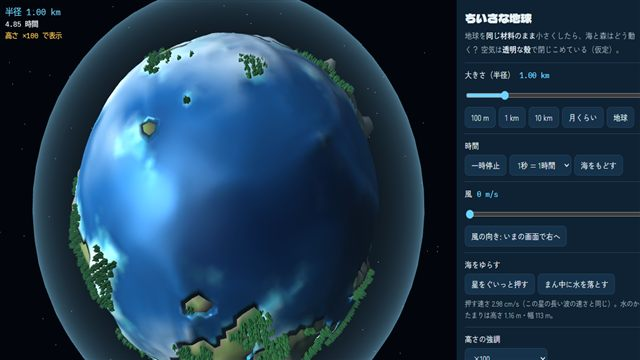
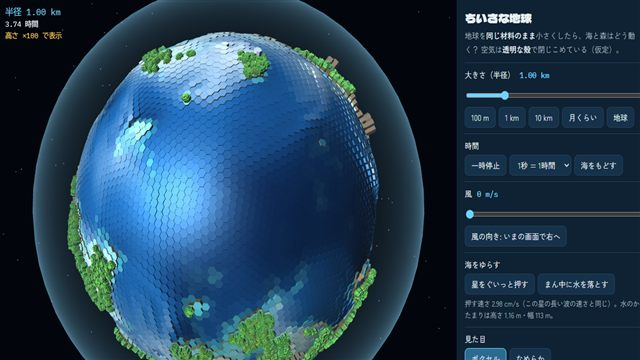
v003-voxel ちいさな地球: 見た目をボクセルふうに（マス目の六角柱を段々に・水の柱・箱の木）。なめらかに切りかえると丸い葉のやわらかい木。1本ずつ色と向きを変える

diff --git a/tiny-earth/js/render.js b/tiny-earth/js/render.js
@@ -1,9 +1,10 @@
 // ちいさな地球 — 描画（three.js r128）。星の半径を 1 として描く。
 'use strict';
 const VIEW = (() => {
-  let renderer, scene, camera, planet, landMesh, waterMesh, treeMesh, shell, sun, cv;
+  let renderer, scene, camera, planet, landMesh, waterMesh, landV, waterV, treeMesh, shell, sun, cv;
+  let C, rFloor;          // ボクセルのマス目・柱の床（陸の上の面）の半径
   let M, TR, O;           // 網・地形・海
-  const st = { ex: 100, az: 0.6, el: 0.35, alt: 2.2, treeShown: 0, treeReal: 0 };
+  const st = { style: 'voxel', ex: 100, az: 0.6, el: 0.35, alt: 2.2, treeShown: 0, treeReal: 0 };
   const tmp = new THREE.Vector3();
 
   function init(canvas, mesh, terrain, ocean) {
@@ -32,6 +33,13 @@ const VIEW = (() => {
     wg.setIndex(idx);
     waterMesh = new THREE.Mesh(wg, new THREE.MeshPhongMaterial({ vertexColors: true, shininess: 25, specular: 0x1a2630 }));
     planet.add(waterMesh);
+    // ボクセルふうの陸と海（マス目を柱にする）
+    C = VOXEL.cells(M); rFloor = new Float32Array(M.N);
+    landV = new THREE.Mesh(VOXEL.columns(M, C), new THREE.MeshLambertMaterial({ vertexColors: true }));
+    waterV = new THREE.Mesh(VOXEL.columns(M, C), new THREE.MeshPhongMaterial({ vertexColors: true, shininess: 25, specular: 0x1a2630 }));
+    planet.add(landV); planet.add(waterV);
+    // 毎コマ全部の頂点から包み球を計算すると重いので、固定の球にして画面外の判定もしない
+    for (const m of [landV, waterV]) { m.geometry.boundingSphere = new THREE.Sphere(new THREE.Vector3(), 3); m.frustumCulled = false; }
     // 殻（空気をとじこめる仮定）
     shell = new THREE.Mesh(new THREE.SphereGeometry(1.25, 64, 32), new THREE.ShaderMaterial({
       transparent: true, depthWrite: false, side: THREE.DoubleSide,
@@ -41,9 +49,11 @@ const VIEW = (() => {
     // logarithmicDepthBuffer の書き込みが ShaderMaterial にはないので、殻は奥行きを見ない
     shell.material.depthTest = false; shell.renderOrder = 10;
     scene.add(shell);
-    // 木（円すい＋幹）
-    treeMesh = new THREE.InstancedMesh(treeGeom(), new THREE.MeshLambertMaterial({ vertexColors: true }), 16000);
+    // 木（ボクセル: 箱の幹と葉 ／ なめらか: 丸い葉）。1本ずつ色を少し変える
+    treeMesh = new THREE.InstancedMesh(treeGeom('voxel'), new THREE.MeshLambertMaterial({ vertexColors: true }), 16000);
+    treeMesh.instanceColor = new THREE.InstancedBufferAttribute(new Float32Array(16000 * 3).fill(1), 3);
     treeMesh.count = 0; planet.add(treeMesh);
+    setStyle(st.style);
     controls();
   }
   function stars() {
@@ -57,21 +67,30 @@ const VIEW = (() => {
     const g = new THREE.BufferGeometry(); g.setAttribute('position', new THREE.BufferAttribute(p, 3));
     scene.add(new THREE.Points(g, new THREE.PointsMaterial({ color: 0x9fb4c8, size: 1.3, sizeAttenuation: false })));
   }
-  // 高さ 1・根元が原点・+y が上の木
-  function treeGeom() {
-    const pos = [], col = [];
-    const ring = (y, r, k) => [Math.cos(k / 6 * Math.PI * 2) * r, y, Math.sin(k / 6 * Math.PI * 2) * r];
-    const add = (a, b, c, color) => { pos.push(...a, ...b, ...c); for (let i = 0; i < 3; i++) col.push(...color); };
-    for (let k = 0; k < 6; k++) {
-      add(ring(0.25, 0.26, k), [0, 1, 0], ring(0.25, 0.26, k + 1), [0.13, 0.33, 0.16]);   // 葉
-      add(ring(0.25, 0.26, k + 1), [0, 0.25, 0], ring(0.25, 0.26, k), [0.10, 0.25, 0.12]);
-      add(ring(0, 0.04, k), ring(0.3, 0.03, k), ring(0, 0.04, k + 1), [0.35, 0.25, 0.16]);  // 幹
+  // 高さ 1・根元が原点・+y が上の木。部品 [形, 色, 中心の高さ, 横の倍率, 縦の倍率] を1つにまとめる
+  function treeGeom(style) {
+    const trunk = [0.42, 0.30, 0.19], leaf = [0.30, 0.55, 0.28], leaf2 = [0.36, 0.62, 0.30];
+    const parts = style === 'voxel'
+      ? [[new THREE.BoxGeometry(1, 1, 1), trunk, 0.2, 0.14, 0.4], [new THREE.BoxGeometry(1, 1, 1), leaf, 0.56, 0.62, 0.46], [new THREE.BoxGeometry(1, 1, 1), leaf2, 0.88, 0.38, 0.24]]
+      : [[new THREE.CylinderGeometry(0.5, 0.6, 1, 7), trunk, 0.2, 0.12, 0.4], [new THREE.IcosahedronGeometry(0.5, 1), leaf, 0.6, 0.66, 0.72], [new THREE.IcosahedronGeometry(0.5, 1), leaf2, 0.84, 0.4, 0.34]];
+    const pos = [], nor = [], col = [];
+    for (const [g0, c, y, sx, sy] of parts) {
+      const g = g0.toNonIndexed(); g.scale(sx, sy, sx); g.translate(0, y, 0); g.computeVertexNormals();
+      const p = g.attributes.position.array, n = g.attributes.normal.array;
+      for (let i = 0; i < p.length; i++) { pos.push(p[i]); nor.push(n[i]); }
+      for (let i = 0; i < p.length / 3; i++) col.push(...c);
     }
     const g = new THREE.BufferGeometry();
     g.setAttribute('position', new THREE.Float32BufferAttribute(pos, 3));
+    g.setAttribute('normal', new THREE.Float32BufferAttribute(nor, 3));
     g.setAttribute('color', new THREE.Float32BufferAttribute(col, 3));
-    g.computeVertexNormals();
     return g;
+  }
+  function setStyle(style) {
+    st.style = style;
+    const vox = style === 'voxel';
+    landMesh.visible = waterMesh.visible = !vox; landV.visible = waterV.visible = vox;
+    treeMesh.geometry.dispose(); treeMesh.geometry = treeGeom(style);
   }
 
   // 大きさ・強調を変えたら陸と木を作りなおす
@@ -88,7 +107,13 @@ const VIEW = (() => {
       else c = mix([0.42, 0.52, 0.28], [0.55, 0.50, 0.45], Math.min(1, e / 3000));          // 草地〜岩
       if (Math.abs(p[i * 3 + 1]) > 0.93 && e > 0) c = [0.88, 0.9, 0.93];                      // 極の雪
       ca.set(c, i * 3);
+      // ボクセル: 見た目だけ段々に（陸は 400 m ごとに切り上げ、海の底は 1000 m ごとに切り下げ。地球の大きさのときの高さで。計算はなめらかな高さ）
+      const de = e >= 0 ? 400 * (1 + Math.floor(e / 400)) : 1000 * Math.floor(e / 1000);
+      rFloor[i] = 1 + ex * de / PHYS.RE;
+      VOXEL.setCol(landV.geometry, M, C, i, rFloor[i], 1 - ex * 12000 / PHYS.RE);
+      VOXEL.setColor(landV.geometry, C, i, c, e >= 0 ? mix(c, [0.36, 0.26, 0.17], 0.6) : mix(c, [0.1, 0.1, 0.12], 0.4));
     }
+    const lv = landV.geometry.attributes; lv.position.needsUpdate = true; lv.color.needsUpdate = true;
     landMesh.geometry.attributes.position.needsUpdate = true; landMesh.geometry.attributes.color.needsUpdate = true;
     landMesh.geometry.computeVertexNormals(); landMesh.geometry.computeBoundingSphere();
     placeTrees();
@@ -104,28 +129,33 @@ const VIEW = (() => {
     const want = Math.min(treeMesh.instanceMatrix.count, Math.round(st.treeReal));
     const cells = []; for (let i = 0; i < M.N; i++) if (TR.forest[i]) cells.push(i);
     let s = 11; const rnd = () => (s = (s * 16807) % 2147483647) / 2147483647;
-    const mtx = new THREE.Matrix4(), q = new THREE.Quaternion(), up = new THREE.Vector3(0, 1, 0), n = new THREE.Vector3(), sc = new THREE.Vector3();
+    const mtx = new THREE.Matrix4(), q = new THREE.Quaternion(), q2 = new THREE.Quaternion(), up = new THREE.Vector3(0, 1, 0), n = new THREE.Vector3(), sc = new THREE.Vector3(), tint = new THREE.Color();
+    const vox = st.style === 'voxel';
     const spread = M.Lavg * 0.6;
     for (let k = 0; k < want; k++) {
       const i = cells[Math.floor(rnd() * cells.length)];
       n.set(M.pos[i * 3] + (rnd() - 0.5) * spread, M.pos[i * 3 + 1] + (rnd() - 0.5) * spread, M.pos[i * 3 + 2] + (rnd() - 0.5) * spread).normalize();
-      q.setFromUnitVectors(up, n);
+      q.setFromUnitVectors(up, n).multiply(q2.setFromAxisAngle(up, rnd() * 6.283));
       const hh = hU * (0.7 + 0.6 * rnd());
       sc.set(hh, hh, hh);
-      mtx.compose(n.clone().multiplyScalar(1 + ex * O.z[i] / R - hh * 0.05), q, sc);
+      const base = vox ? rFloor[i] : 1 + ex * O.z[i] / R;
+      mtx.compose(n.clone().multiplyScalar(base - hh * 0.03), q, sc);
       treeMesh.setMatrixAt(k, mtx);
+      const v = rnd(); tint.setRGB(0.8 + 0.35 * v, 0.85 + 0.3 * rnd(), 0.75 + 0.2 * (1 - v));   // 1本ずつ少しちがう緑
+      treeMesh.setColorAt(k, tint);
     }
     treeMesh.count = want; st.treeShown = want;
     treeMesh.instanceMatrix.needsUpdate = true;
+    if (treeMesh.instanceColor) treeMesh.instanceColor.needsUpdate = true;
   }
 
   // 海の形と色（毎コマ）
   function updateWater() {
-    const R = O.R, ex = st.ex, H0 = O.P.H0, p = M.pos, pa = waterMesh.geometry.attributes.position.array, ca = waterMesh.geometry.attributes.color.array;
+    const R = O.R, ex = st.ex, H0 = O.P.H0, p = M.pos, pa = waterMesh.geometry.attributes.position.array, ca = waterMesh.geometry.attributes.color.array, vox = st.style === 'voxel';
     for (let i = 0; i < M.N; i++) {
       const h = O.h[i], wet = TR.elev[i] >= 0 ? h > 0.02 * H0 : h > O.hdry;   // 陸の上のうすい膜は描かない
       const r = wet ? 1 + ex * (O.z[i] + h) / R : 1 + ex * O.z[i] / R - 3 * Math.max(H0, 0.002 * R) * ex / R;
-      pa[i * 3] = p[i * 3] * r; pa[i * 3 + 1] = p[i * 3 + 1] * r; pa[i * 3 + 2] = p[i * 3 + 2] * r;
+      if (!vox) { pa[i * 3] = p[i * 3] * r; pa[i * 3 + 1] = p[i * 3 + 1] * r; pa[i * 3 + 2] = p[i * 3 + 2] * r; }
       // 色: 深さ（浅い＝明るい）＋ もとの海面からの高さ（高い＝白っぽく、低い＝暗く）
       //   深さはうすく（浅い所だけ少し明るい）、高さの変化を主に（±0.5×平均の深さでいっぱい）
       const d = Math.min(1, h / (0.6 * H0)), a = (O.z[i] + h) / H0;
@@ -134,7 +164,14 @@ const VIEW = (() => {
       if (a > 0) c = mix(c, [0.95, 0.98, 1.0], Math.min(0.9, a * 1.8));
       else c = mix(c, [0.0, 0.04, 0.16], Math.min(0.85, -a * 1.8));
       ca.set(c, i * 3);
+      if (vox) {
+        // 水の柱: 床（段々の地面）から水面まで。乾いている・水面が床より低いときは高さ 0
+        const top = wet ? Math.max(rFloor[i], r) : rFloor[i];
+        VOXEL.setCol(waterV.geometry, M, C, i, top, rFloor[i]);
+        VOXEL.setColorRGB(waterV.geometry, C, i, c[0], c[1], c[2], 0.85);
+      }
     }
+    if (vox) { const wv = waterV.geometry.attributes; wv.position.needsUpdate = true; wv.color.needsUpdate = true; return; }
     waterMesh.geometry.attributes.position.needsUpdate = true; waterMesh.geometry.attributes.color.needsUpdate = true;
     waterMesh.geometry.computeVertexNormals(); waterMesh.geometry.computeBoundingSphere();
   }
@@ -191,7 +228,7 @@ const VIEW = (() => {
   function pick(e) {
     const r = cv.getBoundingClientRect();
     ray.setFromCamera({ x: (e.clientX - r.left) / r.width * 2 - 1, y: -(e.clientY - r.top) / r.height * 2 + 1 }, camera);
-    const hit = ray.intersectObjects([waterMesh, landMesh])[0];
+    const hit = ray.intersectObjects(st.style === 'voxel' ? [waterV, landV] : [waterMesh, landMesh])[0];
     if (!hit) return -1;
     tmp.copy(hit.point).applyQuaternion(planet.quaternion.clone().invert()).normalize();
     return nearest(tmp.x, tmp.y, tmp.z);
@@ -215,6 +252,6 @@ const VIEW = (() => {
     shell.visible = camera.position.length() > 1.3;   // 殻の内がわからは描かない（景色が白っぽくなるので）
     renderer.render(scene, camera);
   }
-  return { init, rebuildLand, updateWater, render, resize, pick, setAlt, screenUpInPlanet, screenRightInPlanet, st,
+  return { init, setStyle, rebuildLand, updateWater, render, resize, pick, setAlt, screenUpInPlanet, screenRightInPlanet, st,
     set onTap(f) { onTap = f; }, get camera() { return camera; } };
 })();

diff --git a/tiny-earth/js/voxel.js b/tiny-earth/js/voxel.js
@@ -1,0 +1,95 @@
+// ちいさな地球 — ボクセルふうの柱（マス目＝ボロノイの六角形・五角形を柱にする）
+// 柱ごとの頂点: 上の面の中心 1 ＋ 角 k ＋ 横の面 4k。法線は面ごと（上＝外向き、横＝となりへの向き）。
+'use strict';
+const VOXEL = (() => {
+  // マス目の角（まわりの三角形の外心）を、まわる順にならべる
+  function cells(M) {
+    const corners = [], start = new Int32Array(M.N + 1);
+    let nv = 0, ni = 0;
+    for (let i = 0; i < M.N; i++) {
+      const px = M.pos[i * 3], py = M.pos[i * 3 + 1], pz = M.pos[i * 3 + 2];
+      // 接平面の向き e1, e2
+      let ax = Math.abs(py) < 0.9 ? 0 : 1, ay = Math.abs(py) < 0.9 ? 1 : 0, az = 0;
+      let e1x = ay * pz - az * py, e1y = az * px - ax * pz, e1z = ax * py - ay * px;
+      const l1 = Math.sqrt(e1x * e1x + e1y * e1y + e1z * e1z); e1x /= l1; e1y /= l1; e1z /= l1;
+      const e2x = py * e1z - pz * e1y, e2y = pz * e1x - px * e1z, e2z = px * e1y - py * e1x;
+      const list = [];
+      for (let j = M.tdeg[i]; j < M.tdeg[i + 1]; j++) {
+        const f = M.vTri[j], cx = M.cc[f * 3], cy = M.cc[f * 3 + 1], cz = M.cc[f * 3 + 2];
+        list.push([Math.atan2(cx * e2x + cy * e2y + cz * e2z, cx * e1x + cy * e1y + cz * e1z), cx, cy, cz]);
+      }
+      list.sort((a, b) => a[0] - b[0]);
+      corners.push(list.map(c => [c[1], c[2], c[3]]));
+      start[i] = nv; nv += 1 + 5 * list.length; ni += 3 * list.length * 3;
+    }
+    start[M.N] = nv;
+    // 角を平たい配列にも（毎コマの書きこみを速くする）
+    const cs = new Int32Array(M.N + 1);
+    for (let i = 0; i < M.N; i++) cs[i + 1] = cs[i] + corners[i].length;
+    const cf = new Float32Array(cs[M.N] * 3);
+    for (let i = 0; i < M.N; i++) corners[i].forEach((c, j) => cf.set(c, (cs[i] + j) * 3));
+    return { corners, start, nv, ni, cs, cf };
+  }
+
+  // 柱の集まり（陸または海）を作る
+  function columns(M, C) {
+    const pos = new Float32Array(C.nv * 3), nor = new Float32Array(C.nv * 3), col = new Float32Array(C.nv * 3);
+    const idx = new Uint32Array(C.ni);
+    let q = 0;
+    for (let i = 0; i < M.N; i++) {
+      const k = C.corners[i].length, s = C.start[i];
+      const px = M.pos[i * 3], py = M.pos[i * 3 + 1], pz = M.pos[i * 3 + 2];
+      for (let v = 0; v <= k; v++) nor.set([px, py, pz], (s + v) * 3);
+      for (let j = 0; j < k; j++) {
+        const a = C.corners[i][j], b = C.corners[i][(j + 1) % k];
+        // 上の面（中心・角 j・角 j+1）
+        idx[q++] = s; idx[q++] = s + 1 + j; idx[q++] = s + 1 + (j + 1) % k;
+        // 横の面の法線: 辺の中点の、接平面での向き
+        let mx = (a[0] + b[0]) / 2, my = (a[1] + b[1]) / 2, mz = (a[2] + b[2]) / 2;
+        const d = mx * px + my * py + mz * pz; mx -= d * px; my -= d * py; mz -= d * pz;
+        const l = Math.sqrt(mx * mx + my * my + mz * mz) || 1;
+        const w = s + 1 + k + 4 * j;   // 上 j・上 j+1・下 j+1・下 j
+        for (let v = 0; v < 4; v++) nor.set([mx / l, my / l, mz / l], (w + v) * 3);
+        idx[q++] = w; idx[q++] = w + 3; idx[q++] = w + 1;
+        idx[q++] = w + 1; idx[q++] = w + 3; idx[q++] = w + 2;
+      }
+    }
+    const g = new THREE.BufferGeometry();
+    g.setAttribute('position', new THREE.BufferAttribute(pos, 3));
+    g.setAttribute('normal', new THREE.BufferAttribute(nor, 3));
+    g.setAttribute('color', new THREE.BufferAttribute(col, 3));
+    g.setIndex(new THREE.BufferAttribute(idx, 1));
+    return g;
+  }
+
+  // 柱 i の上と下の半径を決める
+  function setCol(g, M, C, i, rTop, rBot) {
+    const pa = g.attributes.position.array, cf = C.cf, c0 = C.cs[i], k = C.cs[i + 1] - c0, s = C.start[i];
+    let t = s * 3;
+    pa[t] = M.pos[i * 3] * rTop; pa[t + 1] = M.pos[i * 3 + 1] * rTop; pa[t + 2] = M.pos[i * 3 + 2] * rTop;
+    for (let j = 0; j < k; j++) {
+      const a = (c0 + j) * 3, b = (c0 + (j + 1) % k) * 3, ax = cf[a], ay = cf[a + 1], az = cf[a + 2], bx = cf[b], by = cf[b + 1], bz = cf[b + 2];
+      t = (s + 1 + j) * 3;
+      pa[t] = ax * rTop; pa[t + 1] = ay * rTop; pa[t + 2] = az * rTop;
+      const w = (s + 1 + k + 4 * j) * 3;
+      pa[w] = ax * rTop; pa[w + 1] = ay * rTop; pa[w + 2] = az * rTop;
+      pa[w + 3] = bx * rTop; pa[w + 4] = by * rTop; pa[w + 5] = bz * rTop;
+      pa[w + 6] = bx * rBot; pa[w + 7] = by * rBot; pa[w + 8] = bz * rBot;
+      pa[w + 9] = ax * rBot; pa[w + 10] = ay * rBot; pa[w + 11] = az * rBot;
+    }
+  }
+  // 色: 上の面 (r,g,b)、横の面は上の面に f をかけたもの
+  function setColorRGB(g, C, i, r, gg, b, f) {
+    const ca = g.attributes.color.array, k = C.cs[i + 1] - C.cs[i], s = C.start[i];
+    let v = s * 3;
+    for (const e = (s + 1 + k) * 3; v < e; v += 3) { ca[v] = r; ca[v + 1] = gg; ca[v + 2] = b; }
+    const sr = r * f, sg = gg * f, sb = b * f;
+    for (const e = (s + 1 + 5 * k) * 3; v < e; v += 3) { ca[v] = sr; ca[v + 1] = sg; ca[v + 2] = sb; }
+  }
+  function setColor(g, C, i, top, side) {
+    const ca = g.attributes.color.array, k = C.cs[i + 1] - C.cs[i], s = C.start[i];
+    for (let v = 0; v <= k; v++) ca.set(top, (s + v) * 3);
+    for (let v = s + 1 + k; v < s + 1 + 5 * k; v++) ca.set(side, v * 3);
+  }
+  return { cells, columns, setCol, setColor, setColorRGB };
+})();

diff --git a/tiny-earth/index.html b/tiny-earth/index.html
@@ -61,6 +61,12 @@
     </div>
 
     <div class="ctl">
+      <label>見た目</label>
+      <div class="btns" id="styleBtns"><button data-s="voxel" class="on">ボクセル</button><button data-s="smooth">なめらか</button></div>
+      <p class="note">ボクセルは見た目だけ段々にしています（陸は 400 m、海の底は 1000 m ごと。地球の大きさのときの高さで）。計算はなめらかな高さのまま。</p>
+    </div>
+
+    <div class="ctl">
       <label for="ex">高さの強調</label>
       <select id="ex">
         <option value="1">×1（本当の高さ）</option><option value="10">×10</option><option value="100" selected>×100</option><option value="1000">×1000</option>
@@ -108,6 +114,7 @@
 <script src="js/phys.js"></script>
 <script src="js/mesh.js"></script>
 <script src="js/terrain.js"></script>
+<script src="js/voxel.js"></script>
 <script src="js/ocean.js"></script>
 <script src="js/render.js"></script>
 <script src="js/ui.js"></script>

diff --git a/tiny-earth/launcher.html b/tiny-earth/launcher.html
@@ -41,7 +41,8 @@ td a{color:var(--ink)}
   </section>
   <section>
     <h2>すべてのバックアップ</h2>
-    <table><tr><td>v002-ocean</td><td>段階A: 大きさのスライダー・海の浅水の計算（風・星を押す・水を落とす）・実寸の木・数字の欄（Git）</td><td>2026-10-12</td></tr>
+    <table><tr><td>v003-voxel</td><td>見た目をボクセルふうに（マス目の六角柱・水の柱・箱の木）。なめらかに切りかえると丸い葉の木（Git）</td><td>2026-10-12</td></tr>
+    <tr><td>v002-ocean</td><td>段階A: 大きさのスライダー・海の浅水の計算（風・星を押す・水を落とす）・実寸の木・数字の欄（Git）</td><td>2026-10-12</td></tr>
     <tr><td>v001-start</td><td><a href="versions/v001-start/index.html">雛形（new-app.ps1）</a></td><td>2026-10-12</td></tr></table>
   </section>
 </main>

diff --git a/tiny-earth/js/mesh.js b/tiny-earth/js/mesh.js
@@ -74,7 +74,7 @@ const MESH = (() => {
     for (let f = 0; f < T; f++) for (let k = 0; k < 3; k++) vTri[tf[F[f][k]]++] = f;
     let Lmin = Infinity, Lsum = 0;
     for (let e = 0; e < E; e++) { Lmin = Math.min(Lmin, L[e]); Lsum += L[e]; }
-    return { N, E, T, pos, tri, A, B, L, W, tx, ty, tz, mx, my, mz, area, triEdge, triSign, triArea, deg, vEdge, tdeg, vTri, Lmin, Lavg: Lsum / E };
+    return { N, E, T, pos, tri, cc, A, B, L, W, tx, ty, tz, mx, my, mz, area, triEdge, triSign, triArea, deg, vEdge, tdeg, vTri, Lmin, Lavg: Lsum / E };
   }
   function sub(a, b) { return [a[0] - b[0], a[1] - b[1], a[2] - b[2]]; }
   function dot(a, b) { return a[0] * b[0] + a[1] * b[1] + a[2] * b[2]; }

diff --git a/tiny-earth/js/ui.js b/tiny-earth/js/ui.js
@@ -91,6 +91,11 @@ const UI = (() => {
     $('shake').addEventListener('click', () => h.shake());
     $('dropC').addEventListener('click', () => h.dropCenter());
     $('ex').addEventListener('change', () => h.setEx(+$('ex').value));
+    $('styleBtns').addEventListener('click', e => {
+      const v = e.target.dataset && e.target.dataset.s; if (!v) return;
+      for (const b of $('styleBtns').children) b.classList.toggle('on', b === e.target);
+      h.setStyle(v);
+    });
   }
   return { init, nums, live, facts, setSizeLabel, len, speed, dur, sig, $ };
 })();

diff --git a/tiny-earth/js/main.js b/tiny-earth/js/main.js
@@ -40,6 +40,7 @@ const handlers = {
   shake() { const r = VIEW.screenRightInPlanet(); const v = ocean.P.c0; OCEAN.shake(ocean, r.x * v, r.y * v, r.z * v); },
   dropCenter() { const c = centerCell(); if (c >= 0) dropAt(c); },
   setEx(v) { VIEW.st.ex = v; VIEW.rebuildLand(); exNote(); },
+  setStyle(v) { VIEW.setStyle(v); VIEW.rebuildLand(); },
 };
 function dropAt(c) { OCEAN.drop(ocean, c, 2 * ocean.P.H0, 3 * mesh.Lavg * ocean.R); }
 function centerCell() {

diff --git a/tiny-earth/DEVNOTES.md b/tiny-earth/DEVNOTES.md
@@ -1,8 +1,8 @@
 # ちいさな地球 開発メモ
 
 ## 別セッションで続けるとき（まずここ）
-- いまの状態: v002-ocean（段階A）。保管庫（archive.html）に掲載。入口には載せない（RULES 8.1）。日本語だけ（入口へ移すときに英語）。
-- 次にやること: PLAN.md の段階B（森: 木の高さの限界が重力でどう変わるか・風でゆれる）か段階C（殻を外す正直モード）。どちらからかはユーザーに聞く。
+- いまの状態: v003-voxel（段階A＋ボクセルふうの見た目）。保管庫（archive.html）に掲載。入口には載せない（RULES 8.1）。日本語だけ（入口へ移すときに英語）。
+- 次にやること: 段階C（殻を外す正直モード。2026-10-12 ユーザーが C から、と指示）。そのあと B（森）。
 - 読む順: PLAN.md → このファイルの「ファイル構成」「しくみ」→ 関係するファイルだけ。
 - 動かし方: サーバー apps-2（8765 は OS に予約されていて使えなかった）で http://localhost:8766/tiny-earth/ 。
   デバッグ用の窓口 `window.__tiea`: `simRun(秒)`（星の時間を描かずに進める）・`vol()`（水の量の誤差）・`cam({alt, el, az})`・`handlers`（setR・shake・windDir・setWind・dropCenter・setEx・resetOcean）・`S.playing`。エラーは `window.__tieaErr`。
@@ -10,7 +10,7 @@
 - ユーザーの好み（2026-10-12）: 海が「たっぷんたっぷん」動くのを見たい。界王星より少し広いくらい。空気は「透明な殻」の仮定＋殻を外す正直モード。大きさはスライダーで自由に。
 
 ## ファイル構成
-読みこみ順: three.min.js（`../lib/three@0.128.0`）→ phys → mesh → terrain → ocean → render → ui → main。
+読みこみ順: three.min.js（`../lib/three@0.128.0`）→ phys → mesh → terrain → voxel → ocean → render → ui → main。
 
 | ファイル | 中身 | 主な関数・変数 |
 |---|---|---|
@@ -19,8 +19,9 @@
 | js/phys.js | 定数と、半径から決まる量 | `PHYS.at(R)`（g・vEsc・tOrbit・H0・c0・jump・horizon・mountain・halfTrip）、`PHYS.setup(R,U)` |
 | js/mesh.js | 正二十面体を割った球の網（半径 1 の単位） | `MESH.build(level)` → pos・tri・辺 A/B・L・W・t（a→b の向き）・m（辺の中点）・area・tdeg/vTri・Lmin/Lavg |
 | js/terrain.js | 作りものの地形（ノイズの順位 → 地球の高度分布）と森 | `TERRAIN.build(mesh)` → elev（地球の大きさのときの m）・forest |
+| js/voxel.js | ボクセルふうの柱（マス目＝ボロノイの六角形・五角形の柱） | `VOXEL.cells(M)`（角・頂点の位置 start・平たい角 cf/cs）・`columns`・`setCol(g,M,C,i,上,下)`・`setColorRGB`・`setColor` |
 | js/ocean.js | 球の上の浅水方程式 | `OCEAN.create/reset/step/advance/maxDt/volume/shake/drop` |
-| js/render.js | three.js の描画・カメラ・指の操作 | `VIEW.init/rebuildLand/updateWater/render/pick/setAlt`、`VIEW.st`（ex・az・el・alt・treeShown・treeReal） |
+| js/render.js | three.js の描画・カメラ・指の操作 | `VIEW.init/rebuildLand/updateWater/render/pick/setAlt`、`VIEW.setStyle`、`VIEW.st`（style・ex・az・el・alt・treeShown・treeReal）。`rFloor`＝ボクセルの床の半径 |
 | js/ui.js | 操作・数字の欄・わかること | `UI.init(handlers)`・`nums`・`live`・`facts`・`len/speed/dur` |
 | js/main.js | 組み立て・時間を進める・デバッグの窓口 | `LEVEL`（網の細かさ 5）・`setR`・`handlers`・`window.__tiea` |
 
@@ -37,6 +38,7 @@
 - 風: 軸 a のまわりをまわる U·(a×位置)。「いまの画面で右へ」で軸＝画面の上向き。最初は星の軸（西から東）。
 - 星を押す: 星が速さ c0（長い波の速さ）で画面の右へ動く → 水は −c0 の流れを持つ。水を落とす: 高さ 2×平均の深さ・幅 3 ます のふくらみを足す（水は増える。vol0 も増やす）。
 - 描画: 半径 1。高さの強調 ex（最初 ×100。HUD に黄色で出す）は地形と海だけ、木はいつも実寸（30 m ×0.7〜1.3）。木は森のますにばらまき、最大 16000 本（多いときは間引き、数字の欄に書く）。半径の 1/5000 より小さい木は描かない。
+- **見た目**（2026-10-12 ユーザー: 木がとげとげ → やわらかく、全体をボクセルふうに）: 最初はボクセル。マス目を柱にし、陸は 400 m ごとに切り上げ・海の底は 1000 m ごとに切り下げ（地球の大きさのときの高さ。見た目だけ、計算はなめらか）。水の柱は床から水面まで。木はボクセル＝箱の幹と葉2段、なめらか＝7角の幹と丸い葉（正二十面体）2つ。1本ずつ色・向きを変える（instanceColor は最初に 16000 本分作る。setColorAt に任せると、そのときの count の大きさで作られて壊れる）。ボクセルの柱は包み球を固定して frustumCulled=false（毎コマの computeBoundingSphere が重い）。
 - 海の色: 高さの変化が主（もとの海面より ±0.5×平均の深さで白／紺いっぱい）、深さはうすく。陸の上の水は平均の深さの 2% より厚いときだけ描く・数える。
 - カメラ: 星と一緒に自転。高さ alt（半径の何倍）が 2→0.03 で、星の中心を見る → 地平線の少し下を見る、へ向きを混ぜる。
 
@@ -58,3 +60,4 @@
 ## 状態
 - 2026-10-12 v001-start: new-app.ps1 で雛形を作った（保管庫にカード）。
 - 2026-10-12 v002-ocean: 段階A。大きさのスライダー（100 m〜6371 km）、浅水の海（コリオリ・風・底の摩擦・陸にあふれる）、星を押す・風・水を落とす、実寸の木、数字の欄・わかること、高さの強調（最初 ×100）、殻の表示。サムネイル。
+- 2026-10-12 v003-voxel: 見た目をボクセルふうに（六角柱の段々・水の柱・箱の木）。「なめらか」にも切りかえ（木は丸い葉に）。1コマ 計算約2ms＋水の更新 3.4ms＋描画 3.4ms。
